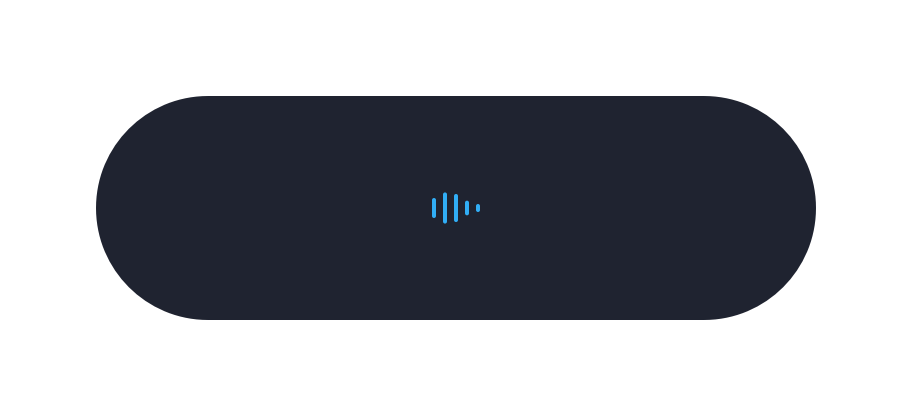
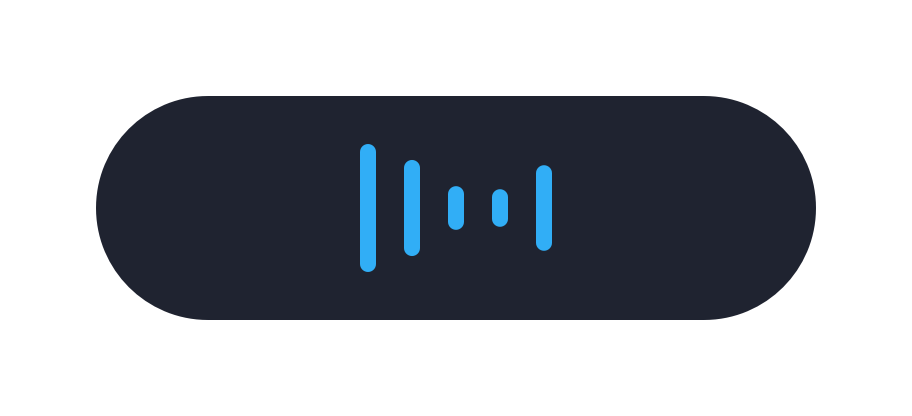
Single hero screenshot with bars at correct relative size
OverlayView's drawRect_ uses fixed pixel sizes for the bars, so the
4× rendered version had bars that looked tiny against the pill.
Replaced with a dedicated RecordingPillView that scales barW/gap/
bar height in the same proportion as the pill itself.

Drop loading/error from the README — keep only the recording state
as the hero shot, larger and matching the live UI proportions.

Changed region(s): [[0.3684, 0.3438, 0.614, 0.6562]]

diff --git a/scripts/render-screenshots.py b/scripts/render-screenshots.py
@@ -1,58 +1,81 @@
 #!/usr/bin/env python3
 """
-Render the OpenSpeaksy overlay in each mode to PNG files for the README.
-Uses NSBitmapImageRep — no Screen Recording permission required, no live UI.
+Render the OpenSpeaksy recording-overlay state to PNG for the README.
+Bars are scaled in proportion to the pill — running OverlayView.drawRect_
+directly leaves bar widths/heights at their original 2 px which looks tiny
+on a 4× retina-style render.
 
 Run from repo root after install:
     venv/bin/python scripts/render-screenshots.py
 """
+import math
 import sys
 from pathlib import Path
 
-# Add project root to path so we can import overlay
 ROOT = Path(__file__).resolve().parent.parent
 sys.path.insert(0, str(ROOT))
 
 from AppKit import (
     NSApplication, NSApplicationActivationPolicyAccessory,
-    NSView, NSBitmapImageFileTypePNG,
+    NSView, NSColor, NSBezierPath, NSBitmapImageFileTypePNG,
 )
 from Foundation import NSMakeRect
 
-# AppKit must be initialized before we can render
 app = NSApplication.sharedApplication()
 app.setActivationPolicy_(NSApplicationActivationPolicyAccessory)
 
-import overlay
-from overlay import OverlayView
 
 SCALE = 4
-PAD = 12 * SCALE
 W = 90 * SCALE
 H = 28 * SCALE
+PAD = 12 * SCALE
+R = H / 2
 
-# Patch overlay constants so the pill draws at SCALE×
-overlay.W = W
-overlay.H = H
-overlay.R = H / 2
+BAR_COLOR = NSColor.colorWithRed_green_blue_alpha_(56 / 255, 189 / 255, 248 / 255, 1.0)
+BG_COLOR = NSColor.colorWithRed_green_blue_alpha_(15 / 255, 23 / 255, 42 / 255, 0.92)
+
+
+class RecordingPillView(NSView):
+    def isOpaque(self):
+        return False
+
+    def drawRect_(self, rect):
+        bounds = self.bounds()
+        path = NSBezierPath.bezierPathWithRoundedRect_xRadius_yRadius_(
+            NSMakeRect(PAD, PAD, W, H), R, R
+        )
+        BG_COLOR.setFill()
+        path.fill()
+
+        # Bars scale with SCALE so the relative density matches the live overlay.
+        barW = 2.0 * SCALE
+        gap = 3.5 * SCALE
+        total = 5 * barW + 4 * gap
+        x0 = PAD + (W - total) / 2
+        cy = PAD + H / 2
+        # Pick a phase that shows varied heights (mid-swing of the sine wave).
+        phase = 1.6
+        BAR_COLOR.setFill()
+        for i in range(5):
+            t = math.sin(phase + i * 1.2) * 0.5 + 0.5
+            h = (4 + t * 12) * SCALE
+            y = cy - h / 2
+            bp = NSBezierPath.bezierPathWithRoundedRect_xRadius_yRadius_(
+                NSMakeRect(x0 + i * (barW + gap), y, barW, h), 1 * SCALE, 1 * SCALE
+            )
+            bp.fill()
+
 
 OUT_DIR = ROOT / "docs" / "screenshots"
 OUT_DIR.mkdir(parents=True, exist_ok=True)
 
-for mode in ("recording", "loading", "error"):
-    view = OverlayView.alloc().initWithFrame_(NSMakeRect(PAD, PAD, W, H))
-    view.setMode_(mode)
+view = RecordingPillView.alloc().initWithFrame_(NSMakeRect(0, 0, W + 2 * PAD, H + 2 * PAD))
+view.setWantsLayer_(True)
 
-    container = NSView.alloc().initWithFrame_(
-        NSMakeRect(0, 0, W + 2 * PAD, H + 2 * PAD)
-    )
-    container.setWantsLayer_(True)
-    container.addSubview_(view)
+bitmap = view.bitmapImageRepForCachingDisplayInRect_(view.bounds())
+view.cacheDisplayInRect_toBitmapImageRep_(view.bounds(), bitmap)
 
-    bitmap = container.bitmapImageRepForCachingDisplayInRect_(container.bounds())
-    container.cacheDisplayInRect_toBitmapImageRep_(container.bounds(), bitmap)
-
-    out_path = OUT_DIR / f"{mode}.png"
-    data = bitmap.representationUsingType_properties_(NSBitmapImageFileTypePNG, {})
-    data.writeToFile_atomically_(str(out_path), True)
-    print(f"wrote {out_path.relative_to(ROOT)}")
+out_path = OUT_DIR / "recording.png"
+data = bitmap.representationUsingType_properties_(NSBitmapImageFileTypePNG, {})
+data.writeToFile_atomically_(str(out_path), True)
+print(f"wrote {out_path.relative_to(ROOT)}")

diff --git a/README.md b/README.md
@@ -12,9 +12,7 @@ Hold right Command, speak, let go. The text appears in any app.
 
 <br>
 
-<img src="docs/screenshots/recording.png" alt="Recording overlay" width="280">
-<img src="docs/screenshots/loading.png" alt="Transcribing overlay" width="280">
-<img src="docs/screenshots/error.png" alt="Error overlay" width="280">
+<img src="docs/screenshots/recording.png" alt="Recording overlay" width="420">
 
 </div>
 